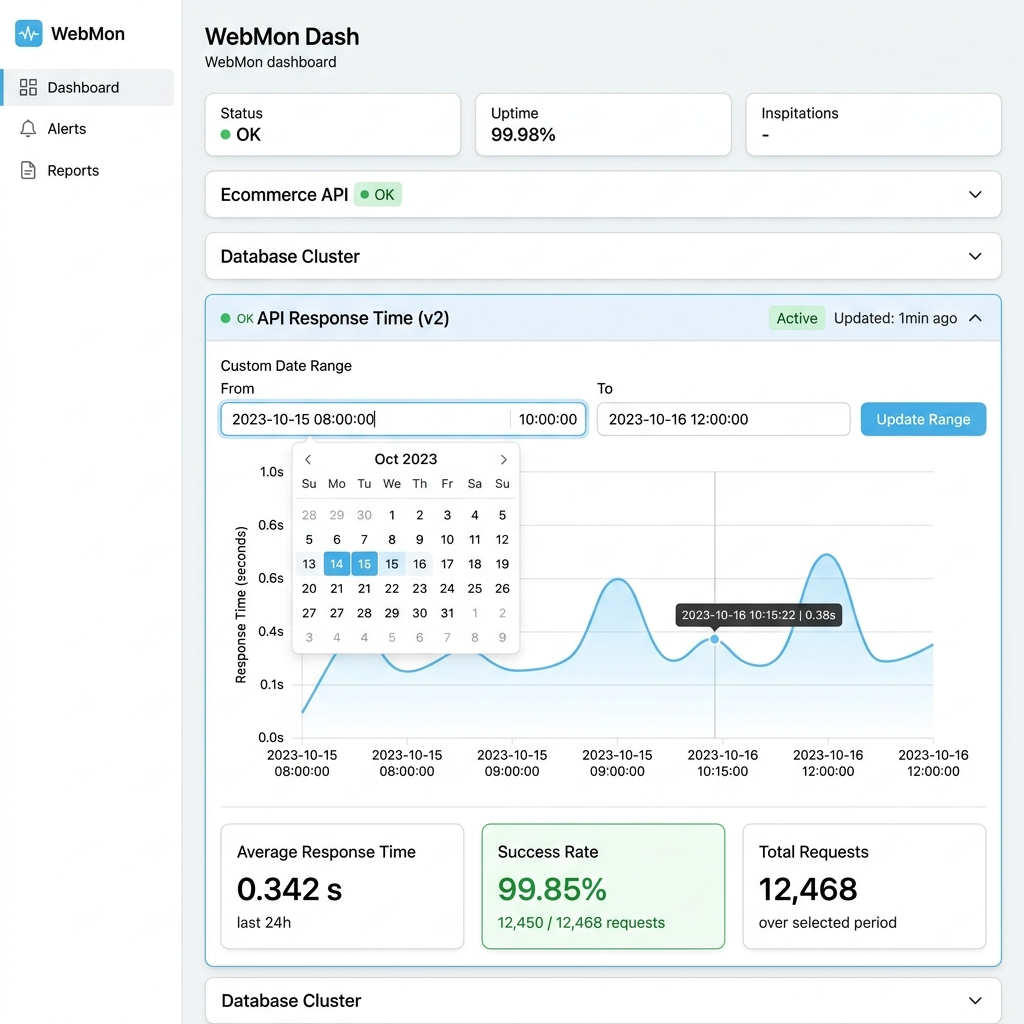
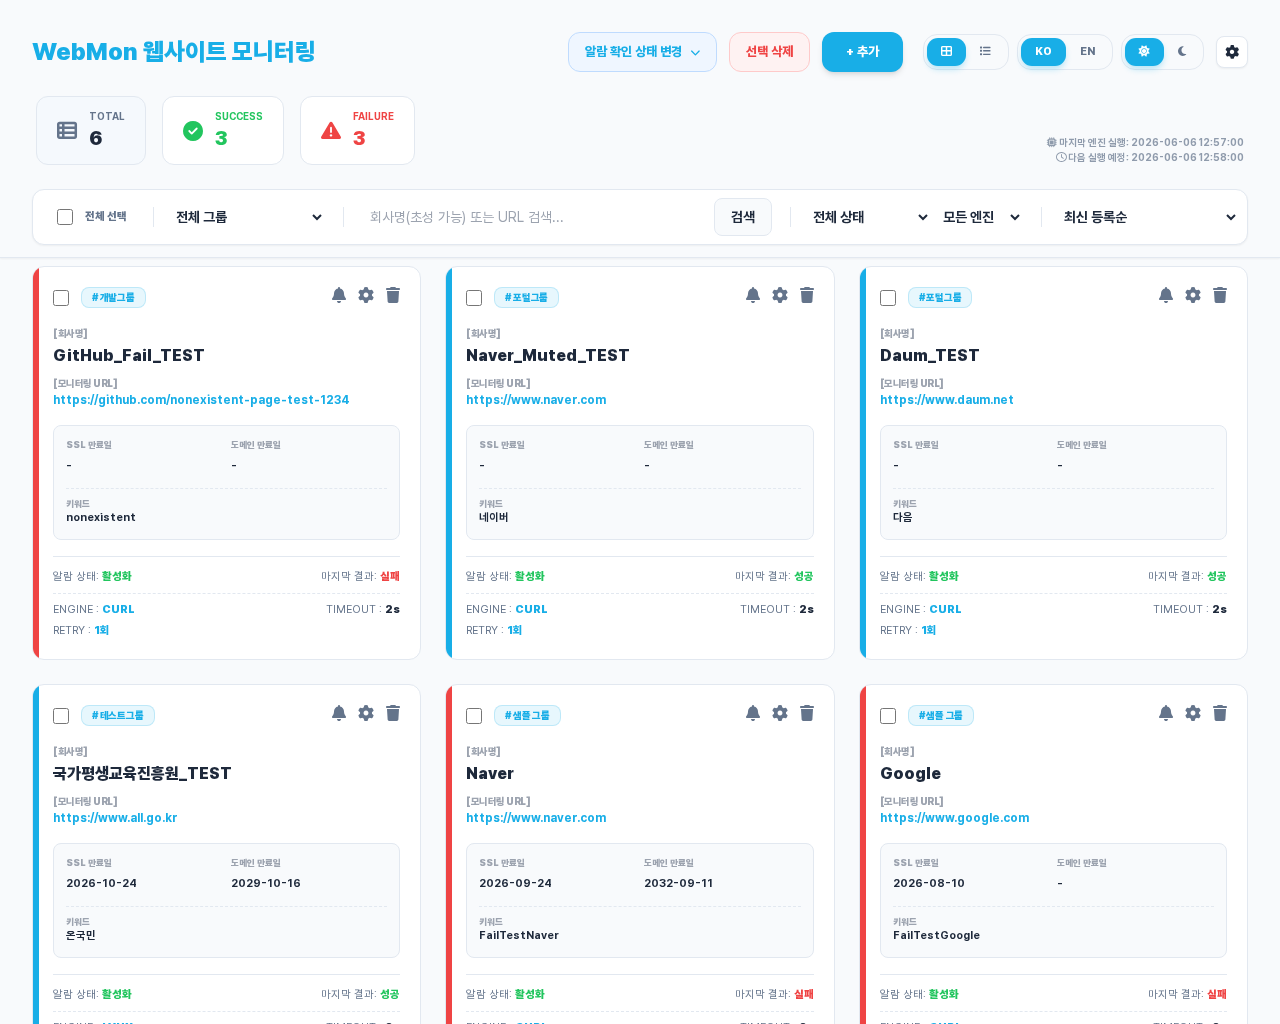
docs: replace generated mockups with actual web page screenshots and add auto-expand/settings query parameter support

diff --git a/webmon/views/index.php b/webmon/views/index.php
@@ -830,6 +830,21 @@ ini_set('display_errors', '1');
                     allowInput: true
                 });
             });
+
+            // 🔍 URL 파라미터에 expand가 있으면 해당 아코디언을 자동으로 엽니다.
+            if (urlParams.has('expand')) {
+                const expandNo = urlParams.get('expand');
+                setTimeout(() => {
+                    toggleAccordion(null, expandNo);
+                }, 500); // UI 안정화를 위한 지연
+            }
+
+            // ⚙ URL 파라미터에 settings가 있으면 설정 모달을 자동으로 엽니다.
+            if (urlParams.has('settings')) {
+                setTimeout(() => {
+                    openSettingsModal();
+                }, 500); // UI 안정화를 위한 지연
+            }
         });
 
         function openScheduleModal(event, row) {
